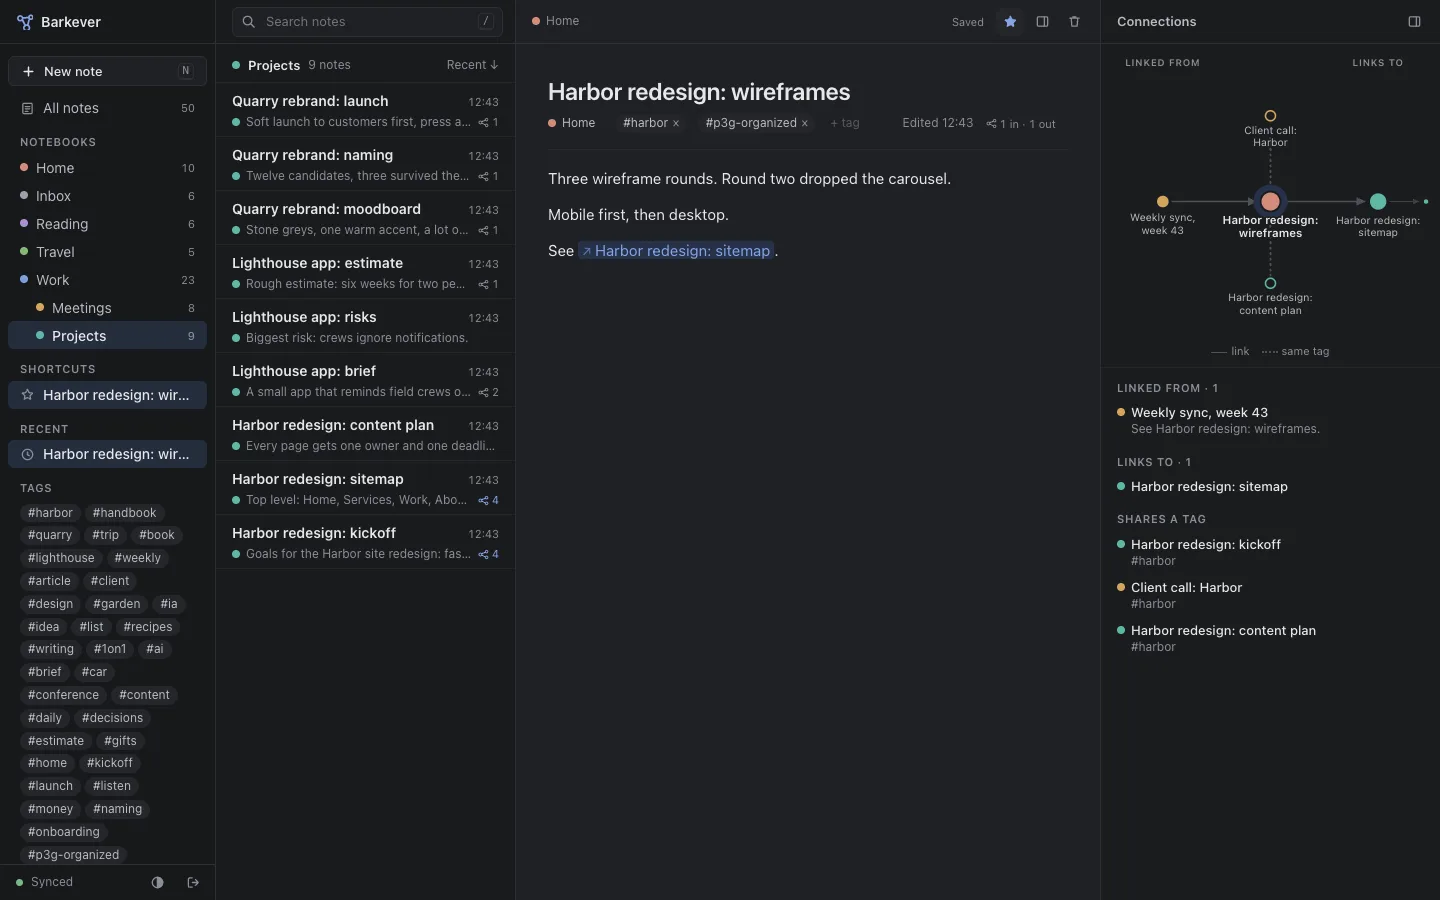
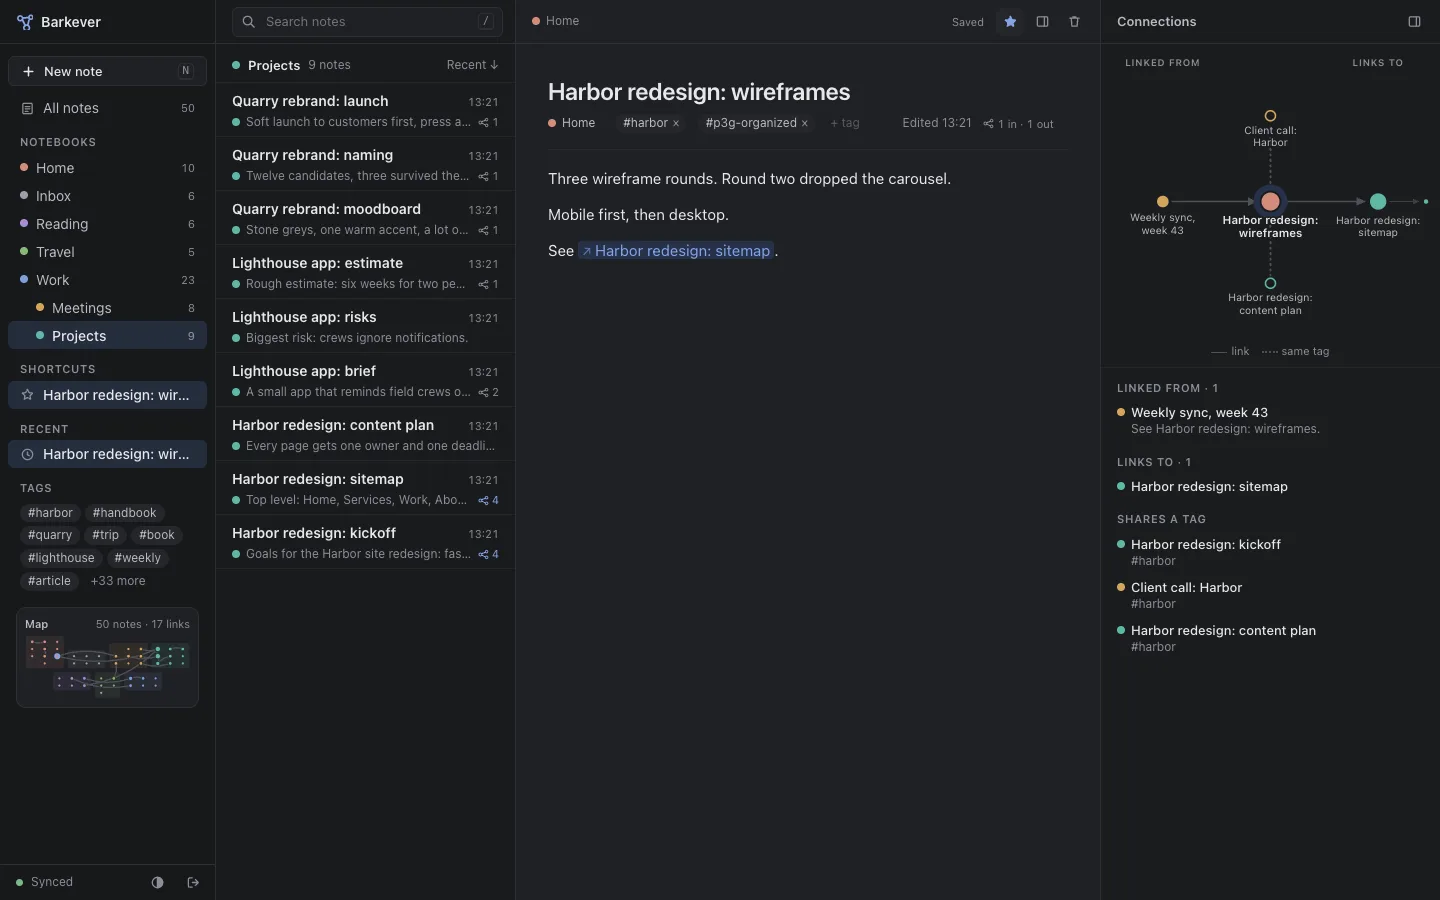
J04: top 8 tags plus "+n more" keep the mini map in view
J04: top 8 tags plus "+n more" keep the mini map in view; a note outside every notebook says so; tags match in any case

- review 2: SideTags shows the 8 biggest tags and the selected one, "+n more" shows the rest; the J04 spec checks the mini map is in the viewport
- review 3: a note whose notebook is gone or unset shows "No notebook" in the picker, not the first notebook
- review 4: withTag matches a typed tag to an existing one in any case, keeps the stored spelling, never doubles (unit test, and HARBOR on a #harbor note in the spec)
- review 5: cleanTag folded into withTag

Changed region(s): [[0.0, 0.6222, 0.125, 0.9644], [0.6875, 0.1244, 0.7188, 0.1556]]

diff --git a/app/src/ui/Organize.tsx b/app/src/ui/Organize.tsx
@@ -2,18 +2,18 @@ import {useState, type KeyboardEvent} from 'react'
 import {Link} from '@tanstack/react-router'
 import type {Note} from '../lib/model'
 import {moveNote, retag} from '../replica/local'
+import {withTag} from '../replica/organize'
 import type {World} from './world'
-
-export const cleanTag = (t: string) => t.trim().toLowerCase().replace(/^#+/, '').replace(/\s+/g, '-')
 
 export function NotebookPick({w, note}: {w: World; note: Note}) {
   const {shelf} = w
   const options = shelf.roots.flatMap((nb) => [nb, ...shelf.children(nb.id)])
+  const placed = !!note.notebook && shelf.byId.has(note.notebook)
   return (
     <label className="nbchip pick" title="Move to notebook">
       <span className="dot" style={{background: shelf.colour(note.notebook)}} />
       <select value={note.notebook ?? ''} onChange={(e) => void moveNote(note.id, note.notebook, e.target.value)} aria-label="Notebook" data-testid="notebook-pick">
-        {!note.notebook && <option value="">No notebook</option>}
+        {!placed && <option value={note.notebook ?? ''}>No notebook</option>}
         {options.map((nb) => (
           <option key={nb.id} value={nb.id}>
             {shelf.path(nb.id).join(' › ')}
@@ -26,12 +26,14 @@ export function NotebookPick({w, note}: {w: World; note: Note}) {
 
 export function TagEdit({w, note}: {w: World; note: Note}) {
   const [draft, setDraft] = useState('')
-  const known = w.tags.map(([t]) => t).filter((t) => !note.tags.includes(t))
+  const all = w.tags.map(([t]) => t)
+  const mine = new Set(note.tags.map((t) => t.toLowerCase()))
+  const known = all.filter((t) => !mine.has(t.toLowerCase()))
   const set = (tags: string[]) => void retag(note.id, note.tags, tags)
   const add = () => {
-    const t = cleanTag(draft)
+    const tags = withTag(note.tags, all, draft)
     setDraft('')
-    if (t && !note.tags.includes(t)) set([...note.tags, t])
+    if (tags !== note.tags) set(tags)
   }
   const onKey = (e: KeyboardEvent<HTMLInputElement>) => {
     if (e.key === 'Enter' || e.key === ',') (e.preventDefault(), add())

diff --git a/app/e2e/j04-organize.spec.ts b/app/e2e/j04-organize.spec.ts
@@ -56,11 +56,16 @@ test('J04 organize: notebooks with stacks, tags, shortcuts and recents, each one
   await page.getByRole('button', {name: 'Remove tag design'}).click()
   await expect(page.getByTestId('note-tag')).toHaveText([/#harbor/, new RegExp(`#${TAG}`)])
   await expect.poll(async () => (await onServer()).tags, {timeout: 20_000}).toEqual(['harbor', TAG])
+  await page.getByTestId('tag-add').fill('HARBOR')
+  await page.getByTestId('tag-add').press('Enter')
+  await expect(page.getByTestId('note-tag')).toHaveText([/#harbor/, new RegExp(`#${TAG}`)])
 
   await page.getByTestId('star').click()
   await expect(side(page, 'side-shortcut', TITLE)).toHaveCount(1)
+  await expect(page.locator('.mini')).toBeInViewport()
   await page.screenshot({path: test.info().outputPath('j04-organize-dark.png')})
 
+  await page.getByTestId('side-tags-more').click()
   await side(page, 'side-tag', `#${TAG}`).click()
   expect(params(page)).toEqual({tag: TAG})
   await expect(page.getByTestId('note-row')).toHaveCount(1)
@@ -87,6 +92,7 @@ test('J04 organize: notebooks with stacks, tags, shortcuts and recents, each one
   await expect(page.getByTestId('note-tag')).toHaveText([/#harbor/, new RegExp(`#${TAG}`)])
   await expect(side(page, 'side-shortcut', TITLE)).toHaveCount(1)
   await expect(page.getByTestId('side-recent').first()).toHaveText(TITLE)
+  await page.getByTestId('side-tags-more').click()
   await expect(side(page, 'side-tag', `#${TAG}`)).toHaveCount(1)
 
   await page.getByTestId('star').click()

diff --git a/app/src/ui/Sidebar.tsx b/app/src/ui/Sidebar.tsx
@@ -9,6 +9,7 @@ import type {Reach} from '../lib/online'
 import type {Search} from '../lib/scope'
 import {Icon} from './icons'
 import {MiniMap} from './MiniMap'
+import {SideTags} from './SideTags'
 import {toggleTheme} from './local-prefs'
 import type {World} from './world'
 
@@ -81,14 +82,7 @@ export function Sidebar({w, s, reach, modal, onNew, onPick}: Props) {
         {shortcuts.length ? shortcuts : <div className="side-none">Star a note to keep it here.</div>}
         {recents.length > 0 && <div className="side-h">Recent</div>}
         {recents.map((id) => noteItem(id, 'clock', 'side-recent'))}
-        {tags.length > 0 && <div className="side-h">Tags</div>}
-        <div className="tags">
-          {tags.map(([t]) => (
-            <Link key={t} to="/" search={{tag: t}} onClick={() => onPick()} className={`tag${!s.q && s.tag === t ? ' on' : ''}`} data-testid="side-tag">
-              #{t}
-            </Link>
-          ))}
-        </div>
+        <SideTags tags={tags} s={s} onPick={() => onPick()} />
         <MiniMap w={w} sel={s.n} />
       </nav>
       <div className="side-foot">

diff --git a/app/src/ui/SideTags.tsx b/app/src/ui/SideTags.tsx
@@ -1,0 +1,32 @@
+import {useState} from 'react'
+import {Link} from '@tanstack/react-router'
+import type {Search} from '../lib/scope'
+
+const TOP_TAGS = 8
+
+type Props = {tags: [string, number][]; s: Search; onPick: () => void}
+
+export function SideTags({tags, s, onPick}: Props) {
+  const [all, setAll] = useState(false)
+  if (!tags.length) return null
+  const on = !s.q && s.tag
+  const shown = all ? tags : tags.filter(([t], i) => i < TOP_TAGS || t === on)
+  const hidden = tags.length - shown.length
+  return (
+    <>
+      <div className="side-h">Tags</div>
+      <div className="tags">
+        {shown.map(([t]) => (
+          <Link key={t} to="/" search={{tag: t}} onClick={onPick} className={`tag${on === t ? ' on' : ''}`} data-testid="side-tag">
+            #{t}
+          </Link>
+        ))}
+        {(hidden > 0 || all) && (
+          <button className="tag more-tags" onClick={() => setAll(!all)} aria-expanded={all} data-testid="side-tags-more">
+            {all ? 'Fewer' : `+${hidden} more`}
+          </button>
+        )}
+      </div>
+    </>
+  )
+}

diff --git a/app/src/replica/organize.test.ts b/app/src/replica/organize.test.ts
@@ -1,7 +1,7 @@
 import {test} from 'node:test'
 import assert from 'node:assert/strict'
 import {mergeLocal, mergeNote, same} from './merge.ts'
-import {move, tagsTo} from './organize.ts'
+import {move, tagsTo, withTag} from './organize.ts'
 import {NOTE_FIELDS, type NoteDoc} from './note.ts'
 
 const AT = '2026-10-29T12:00:00.000Z'
@@ -37,4 +37,12 @@ test('a move here and a retag on another device both survive the merge', () => {
 test('a note with no notebook can be moved into one', () => {
   const loose: NoteDoc = {...server, notebook: undefined}
   assert.equal(local(loose, move(loose, null, 'nb-inbox')).notebook?._ref, 'nb-inbox')
+})
+
+test('a typed tag matches an existing one in any case, keeps its stored spelling and never doubles', () => {
+  assert.deepEqual(withTag(['design'], ['Harbor', 'design'], 'harbor'), ['design', 'Harbor'])
+  assert.deepEqual(withTag(['Harbor'], ['Harbor'], 'HARBOR'), ['Harbor'])
+  assert.deepEqual(withTag([], [], '  #Field Notes '), ['field-notes'])
+  const tags = ['a']
+  assert.equal(withTag(tags, [], '  '), tags)
 })

diff --git a/app/src/replica/organize.ts b/app/src/replica/organize.ts
@@ -7,3 +7,11 @@ const ref = (id: string): Ref => ({_type: 'reference', _ref: id})
 export const move = (n: NoteDoc, from: string | null, to: string): Change => [{notebook: n.notebook?._ref === from ? n.notebook : from ? ref(from) : undefined}, {notebook: ref(to)}]
 
 export const tagsTo = (shown: string[], tags: string[]): Change => [{tags: shown}, {tags}]
+
+const sameTag = (a: string) => (b: string) => a.toLowerCase() === b.toLowerCase()
+
+export function withTag(tags: string[], known: string[], typed: string): string[] {
+  const t = typed.trim().replace(/^#+/, '').replace(/\s+/g, '-')
+  if (!t || tags.some(sameTag(t))) return tags
+  return [...tags, known.find(sameTag(t)) ?? t.toLowerCase()]
+}

diff --git a/app/src/styles/sidebar.css b/app/src/styles/sidebar.css
@@ -28,3 +28,5 @@
 .side-foot .dot { background: var(--c-ok); width: var(--dot-s); height: var(--dot-s); }
 .side-foot .dot.off { background: none; border: 1.5px solid var(--c-warn-fg); }
 .side-foot .icon-btn { margin-left: auto; }
+.tags .more-tags { color: var(--c-muted); background: none; }
+.tags .more-tags:hover { color: var(--c-text); background: var(--c-hover); }
